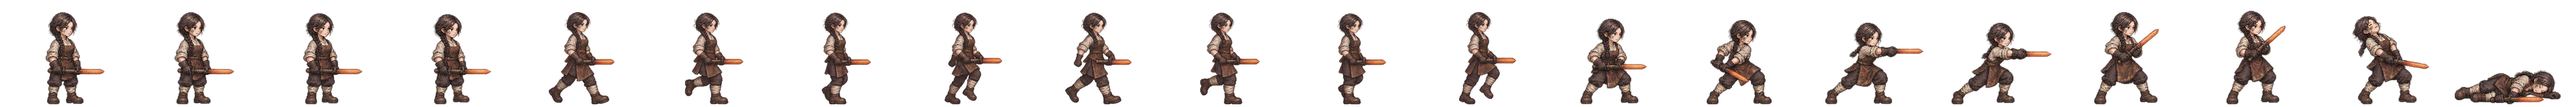
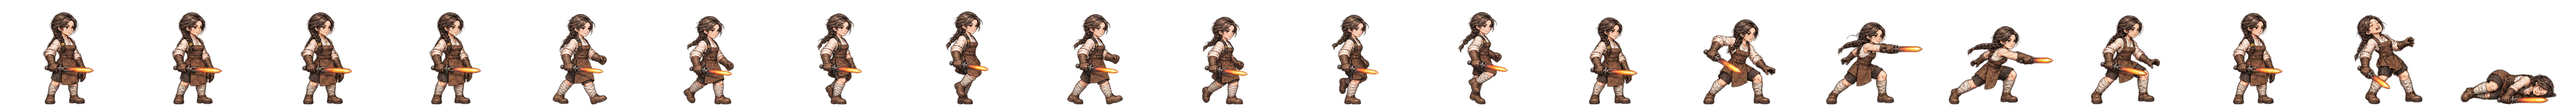
전투 띠: 별 새 띠 · 활미·가온 반려(머리 커짐) 다시 줄
Claude-Session: https://claude.ai/code/session_01TRiuNB7ETQrp6jqUMFwvt7

Changed region(s): [[0.4688, 0.125, 1.0, 0.9688], [0.0, 0.125, 0.4375, 0.9688]]

diff --git a/src/ui/realm/battle-strikes.ts b/src/ui/realm/battle-strikes.ts
@@ -256,7 +256,7 @@ const CONTACT: Readonly<Record<string, [number, number, number]>> = {
   'gen-haebi': [14, 0.86, 0.73], 'gen-heo': [14, 0.95, 0.43], 'gen-hyeokgeose': [14, 0.93, 0.48],
   'gen-hyeopbo': [14, 0.94, 0.47], 'gen-malgalgi': [14, 0.96, 0.52], 'gen-mari': [14, 0.95, 0.48],
   'gen-oi': [14, 0.96, 0.47], 'gen-onjo': [14, 0.93, 0.45], 'gen-soebi': [14, 0.91, 0.49],
-  'gen-soseono': [14, 0.97, 0.4], 'gen-bdanbi': [14, 0.84, 0.63], 'gen-dallae2': [14, 0.89, 0.47], 'gen-maryeo': [14, 0.94, 0.59], 'gen-horselord': [14, 0.94, 0.48], 'gen-olddaeso': [14, 0.96, 0.45], 'gen-maro': [14, 0.94, 0.53], 'gen-gwaeyu': [14, 0.95, 0.45], 'gen-daemusin': [15, 0.84, 0.59], 'gen-tahae': [14, 0.95, 0.54], 'gen-ocheongan': [14, 0.95, 0.47], 'gen-yusugan': [14, 0.96, 0.47], 'gen-odogan': [14, 0.86, 0.48], 'gen-pidogan': [14, 0.87, 0.51], 'gen-yeodogan': [14, 0.89, 0.46], 'gen-adogan': [14, 0.89, 0.52], 'gen-musoe': [14, 0.83, 0.53], 'gen-suro': [14, 0.89, 0.88], 'gen-waechief': [14, 0.95, 0.46], 'gen-hojin': [14, 0.81, 0.7], 'gen-jita': [14, 0.94, 0.43], 'gen-guryema': [15, 0.76, 0.51], 'gen-jibaekho': [14, 0.95, 0.51], 'gen-sobeol': [14, 0.95, 0.41], 'gen-alpyeong': [14, 0.88, 0.56], 'gen-hogong': [14, 0.86, 0.5], 'gen-geumbawi': [14, 0.93, 0.43], 'gen-keundol': [14, 0.92, 0.53], 'gen-jinha': [14, 0.93, 0.42], 'gen-duman': [14, 0.95, 0.52], 'gen-gomok': [14, 0.93, 0.45], 'gen-hneoul': [15, 0.77, 0.48], 'gen-tneoul': [14, 0.94, 0.49], 'gen-sdallae': [15, 0.78, 0.41], 'gen-yucheongan': [14, 0.89, 0.51], 'gen-sincheongan': [14, 0.94, 0.47], 'gen-singwigan': [14, 0.87, 0.44], 'gen-mdallae': [14, 0.96, 0.44], 'gen-mulbeom': [14, 0.95, 0.4], 'gen-beomi': [14, 0.94, 0.4], 'gen-danbi': [15, 0.7, 0.43], 'gen-mulsae': [14, 0.94, 0.46], 'gen-darae': [15, 0.72, 0.47], 'gen-mir': [15, 0.72, 0.47], 'gen-wan': [15, 0.7, 0.41], 'gen-gom': [14, 0.96, 0.39], 'gen-sagong': [14, 0.96, 0.5], 'gen-halla': [14, 0.93, 0.46], 'gen-areum': [14, 0.88, 0.48], 'gen-dokmudeom': [14, 0.87, 0.37], 'gen-beom': [14, 0.86, 0.39], 'gen-baram': [14, 0.87, 0.44], 'gen-goeun': [14, 0.85, 0.46], 'gen-byeol': [14, 0.93, 0.48], 'gen-sinneoul': [14, 0.94, 0.46], 'gen-haesol': [14, 0.95, 0.49], 'gen-odi': [14, 0.96, 0.45], 'gen-irang': [14, 0.9, 0.42], 'gen-dalli': [15, 0.76, 0.53], 'gen-bakdal': [15, 0.72, 0.43], 'gen-noeul': [15, 0.73, 0.44], 'gen-maehwa': [15, 0.76, 0.65], 'gen-gaon': [14, 0.78, 0.38], 'gen-eomni': [14, 0.96, 0.42], 'gen-nuri': [14, 0.96, 0.54], 'gen-bira': [14, 0.95, 0.33], 'gen-gureum': [14, 0.96, 0.45],
+  'gen-soseono': [14, 0.97, 0.4], 'gen-bdanbi': [14, 0.84, 0.63], 'gen-dallae2': [14, 0.89, 0.47], 'gen-maryeo': [14, 0.94, 0.59], 'gen-horselord': [14, 0.94, 0.48], 'gen-olddaeso': [14, 0.96, 0.45], 'gen-maro': [14, 0.94, 0.53], 'gen-gwaeyu': [14, 0.95, 0.45], 'gen-daemusin': [15, 0.84, 0.59], 'gen-tahae': [14, 0.95, 0.54], 'gen-ocheongan': [14, 0.95, 0.47], 'gen-yusugan': [14, 0.96, 0.47], 'gen-odogan': [14, 0.86, 0.48], 'gen-pidogan': [14, 0.87, 0.51], 'gen-yeodogan': [14, 0.89, 0.46], 'gen-adogan': [14, 0.89, 0.52], 'gen-musoe': [14, 0.83, 0.53], 'gen-suro': [14, 0.89, 0.88], 'gen-waechief': [14, 0.95, 0.46], 'gen-hojin': [14, 0.81, 0.7], 'gen-jita': [14, 0.94, 0.43], 'gen-guryema': [15, 0.76, 0.51], 'gen-jibaekho': [14, 0.95, 0.51], 'gen-sobeol': [14, 0.95, 0.41], 'gen-alpyeong': [14, 0.88, 0.56], 'gen-hogong': [14, 0.86, 0.5], 'gen-geumbawi': [14, 0.93, 0.43], 'gen-keundol': [14, 0.92, 0.53], 'gen-jinha': [14, 0.93, 0.42], 'gen-duman': [14, 0.95, 0.52], 'gen-gomok': [14, 0.93, 0.45], 'gen-hneoul': [15, 0.77, 0.48], 'gen-tneoul': [14, 0.94, 0.49], 'gen-sdallae': [15, 0.78, 0.41], 'gen-yucheongan': [14, 0.89, 0.51], 'gen-sincheongan': [14, 0.94, 0.47], 'gen-singwigan': [14, 0.87, 0.44], 'gen-mdallae': [14, 0.96, 0.44], 'gen-mulbeom': [14, 0.95, 0.4], 'gen-beomi': [14, 0.94, 0.4], 'gen-danbi': [15, 0.7, 0.43], 'gen-mulsae': [14, 0.94, 0.46], 'gen-darae': [15, 0.72, 0.47], 'gen-mir': [15, 0.72, 0.47], 'gen-wan': [15, 0.7, 0.41], 'gen-gom': [14, 0.96, 0.39], 'gen-sagong': [14, 0.96, 0.5], 'gen-halla': [14, 0.93, 0.46], 'gen-areum': [14, 0.88, 0.48], 'gen-dokmudeom': [14, 0.87, 0.37], 'gen-beom': [14, 0.86, 0.39], 'gen-baram': [14, 0.87, 0.44], 'gen-goeun': [14, 0.85, 0.46], 'gen-byeol': [14, 0.92, 0.46], 'gen-sinneoul': [14, 0.94, 0.46], 'gen-haesol': [14, 0.95, 0.49], 'gen-odi': [14, 0.96, 0.45], 'gen-irang': [14, 0.9, 0.42], 'gen-dalli': [15, 0.76, 0.53], 'gen-bakdal': [15, 0.72, 0.43], 'gen-noeul': [15, 0.73, 0.44], 'gen-maehwa': [15, 0.76, 0.65], 'gen-gaon': [14, 0.78, 0.38], 'gen-eomni': [14, 0.96, 0.42], 'gen-nuri': [14, 0.96, 0.54], 'gen-bira': [14, 0.95, 0.33], 'gen-gureum': [14, 0.96, 0.45],
   'gen-biryu': [14, 0.82, 0.46], 'gen-geumha': [14, 0.88, 0.46], 'gen-geota': [14, 0.86, 0.37], 'gen-soebo': [14, 0.85, 0.45],
   'gen-gaennae': [14, 0.84, 0.45],
   'gen-budeul': [14, 0.9, 0.43],

diff --git a/docs/realm/production/CODEX-SKILLBODY-REDO-20261117.md b/docs/realm/production/CODEX-SKILLBODY-REDO-20261117.md
@@ -1106,3 +1106,4 @@
 - HIT7/파도후33의QUEUE SP-*나머지44를이번재지시작업으로순서대로분리배정예정. 기존44는모두옛held기록이므로원본보존하고새33개인원장으로구분,기존콜기록사후변경안함. 부모만중앙merge/MD,게임코드·QUEUE·입수·commit미변경.
 - 11-18 Claude 판정(claude33): 백제 무희 **통과·넣음**. 압독 왕비 **반려**(머리가 옛 판보다 더 커짐 · 아이 같음) → `..._act_v4/_walk_v4` 줄에 올림(얼굴 1/10 이하). 고래 여왕은 형 판정 대기(보류).
 - 11-18 Claude 판정: 동옥저 소금 **반려**(옛 판과 거의 같고 머리 더 큼 → 얼굴 1/10 이하로 v4). 탐라 오름비 **반려** → v4: ① 머리털 둘레 붉은 키잉 찌꺼기 없애기(배경 단색 · 테두리 깨끗이) ② **무기는 원래 초상처럼 꼰 밧줄(올가미)** · 몽둥이 금지. 압독 왕비 v4 는 앞 지시대로.
+- 11-18 Claude 판정: 별 **통과·넣음**. 활미 **반려**(머리 더 커짐 → v4 얼굴 1/10 이하). 가온 **반려**(털모자째 머리가 2.5등신 → v5: 모자 작게·몸 4등신 · 해달 기준).
